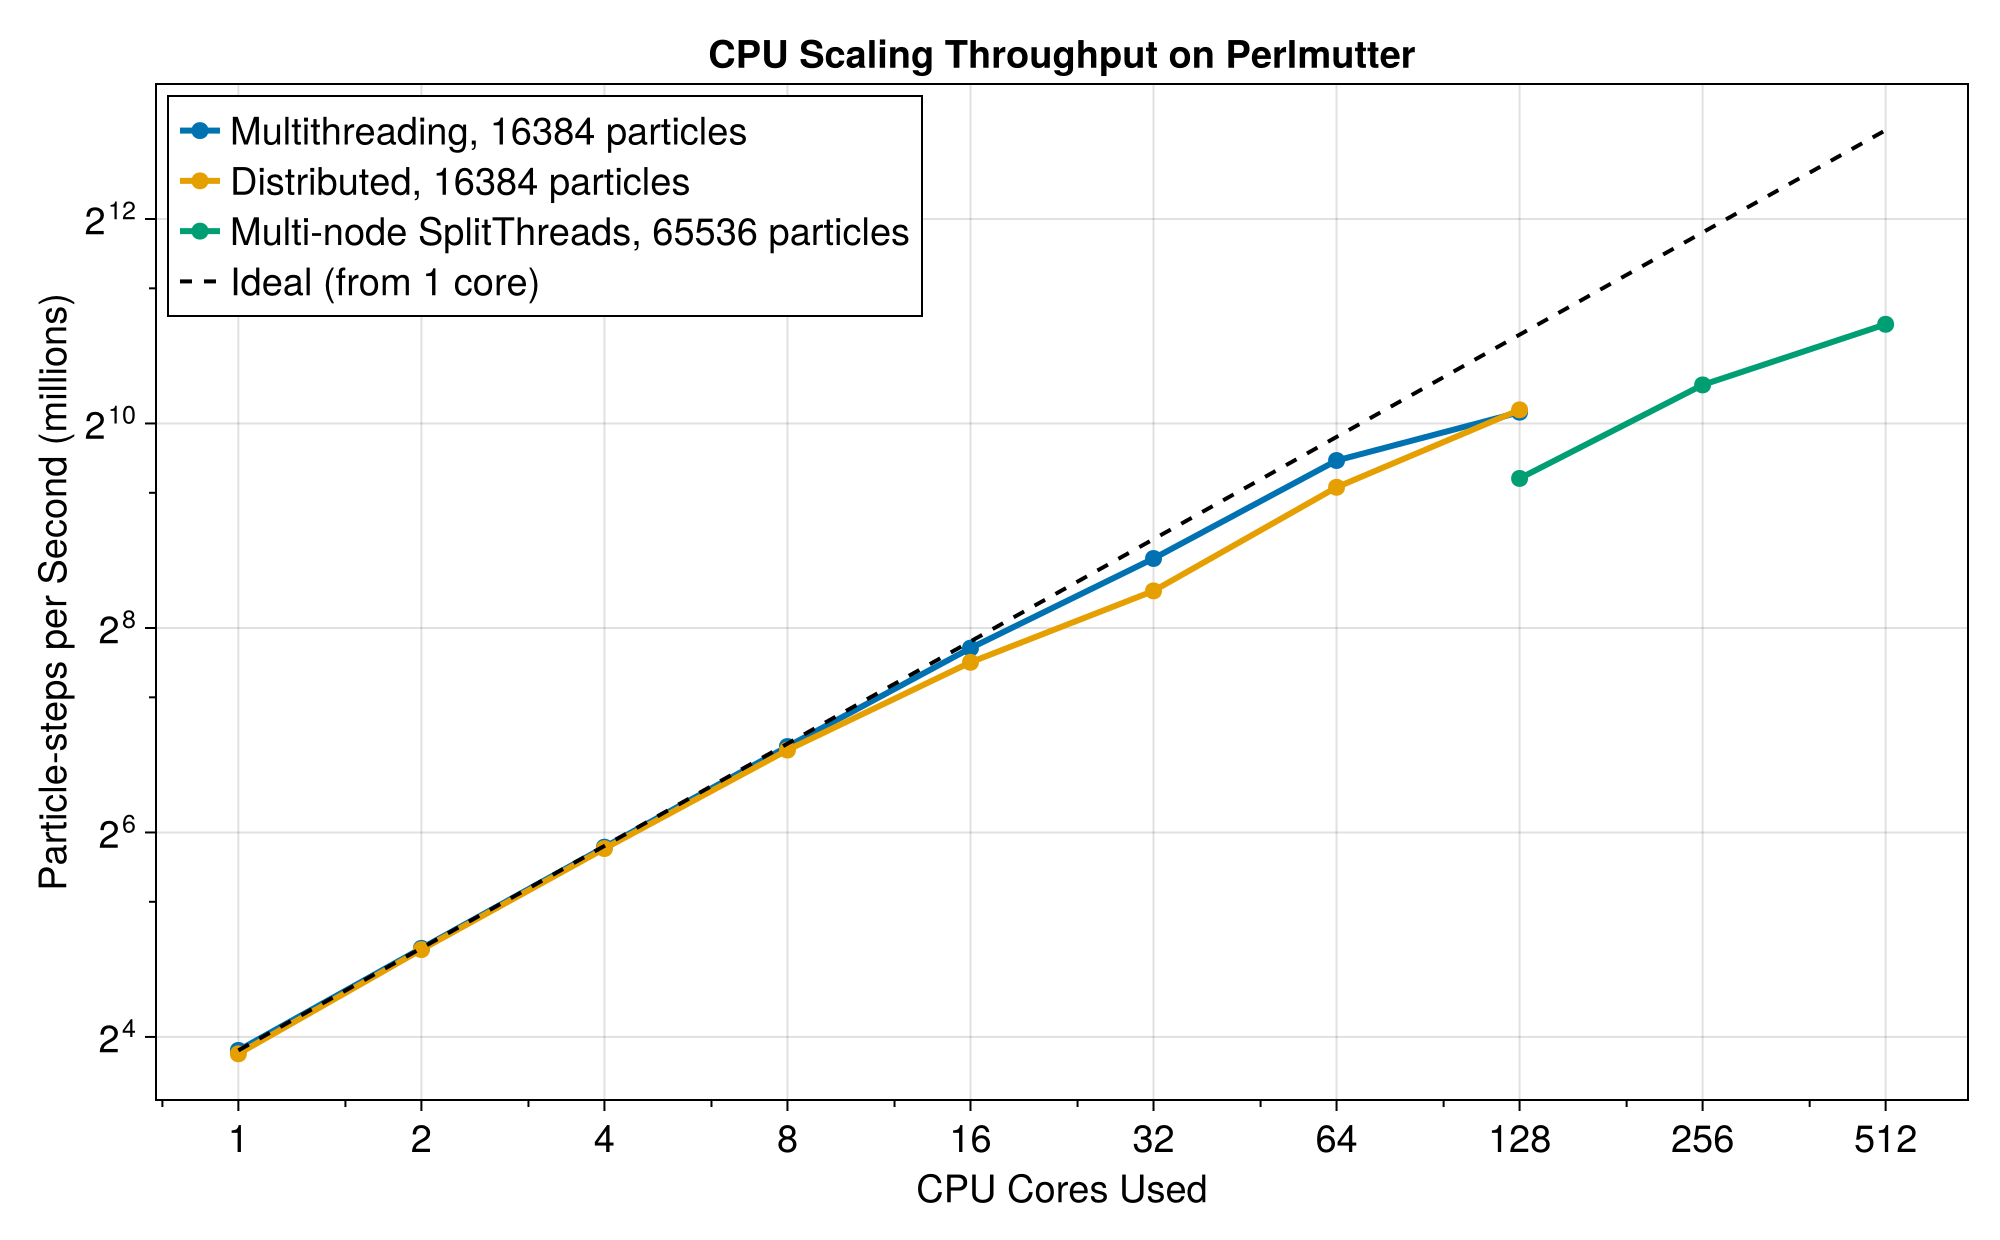
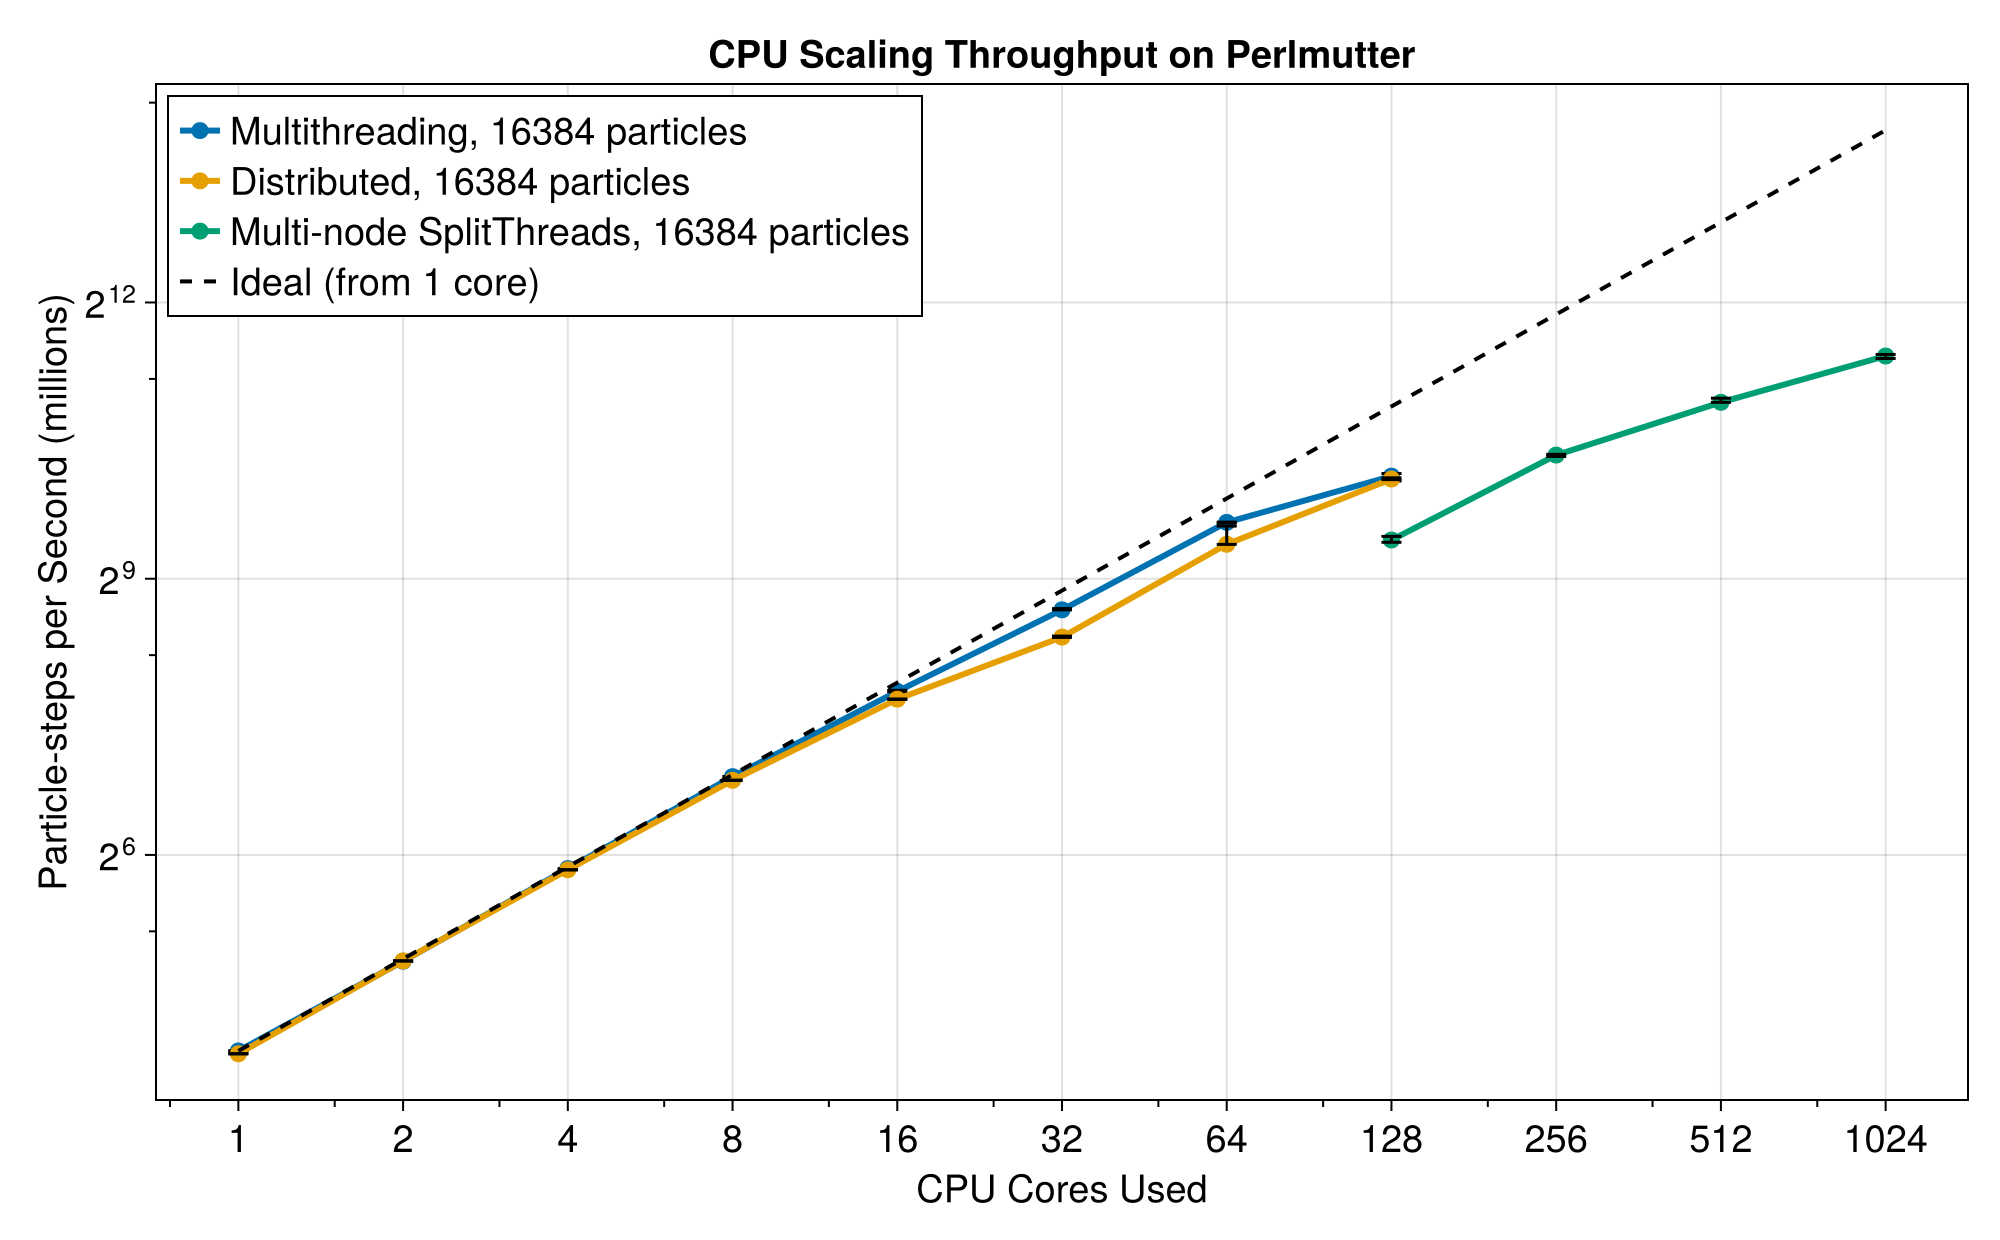
benchmark: matched-workload scaling measurements with sample spread
Re-measure all three sweeps at 16384 particles and 250000 steps so the curves share one workload, keep the median of repeated runs with the sample range recorded, and extend the node sweep to 8 nodes.

Threads and distributed track each other within a few percent and reach about 1.1 G particle-steps per second on 128 cores. Multi-node reaches 2.7 G/s across 8 nodes; its one-node point sits 38 percent below a single 128-thread process, which is what gathering every trajectory back to the master costs.

Update the docs figure and its text to match.

diff --git a/docs/src/index.md b/docs/src/index.md
@@ -57,13 +57,15 @@ The following table compares the performance of TestParticle's Boris solver agai
 
 ### Parallel Scaling
 
-TestParticle.jl supports multithreading, distributed computing, and multi-node parallelism for ensemble simulations on CPUs. The following aggregate throughput was obtained on a Perlmutter CPU node (2x AMD EPYC 7763, 128 physical cores). Each ensemble traces a uniform magnetic field with the Boris solver and saves 100 points per trajectory; the single-node sweeps trace 16384 particles, and the multi-node sweep 65536.
+TestParticle.jl supports multithreading, distributed computing, and multi-node parallelism for ensemble simulations on CPUs. The following aggregate throughput was obtained on Perlmutter CPU nodes (2x AMD EPYC 7763, 128 physical cores per node). Each ensemble traces 16384 particles for 250000 Boris steps in a uniform magnetic field, saving 100 points per trajectory. Every point is the median of repeated runs, and the error bars span the fastest and slowest repetition.
 
 - *Multithreading*: `EnsembleThreads()` over 1 to 128 threads in one process.
 - *Distributed*: `EnsembleDistributed()` over 1 to 128 worker processes on one node.
-- *Multi-node*: `EnsembleSplitThreads()` with one worker per node, each worker running 128 threads, over 1 to 4 nodes.
+- *Multi-node*: `EnsembleSplitThreads()` with one worker per node, each worker running 128 threads, over 1 to 8 nodes.
 
 ![CPU Scaling Throughput](./figures/scaling_cpu.png)
+
+The two single-node strategies track each other within a few percent and reach about 1.1 billion particle-steps per second on 128 cores, close to 60 percent of the single-core rate extrapolated linearly; the rest goes to the lower clock an all-core load draws. Multi-node carries on past one node and reaches 2.7 billion particle-steps per second across 8 nodes, but its one-node point sits well below the single-process runs, since `EnsembleSplitThreads` gathers every trajectory back to the master process, a cost the shared-memory path does not pay.
 
 Reproducible scripts and the recorded measurements live in [benchmark](https://github.com/henry2004y/TestParticle.jl/tree/master/benchmark); render the figure with `benchmark/plot_scaling.jl cpu`.
 
